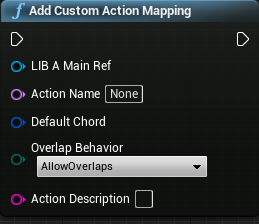
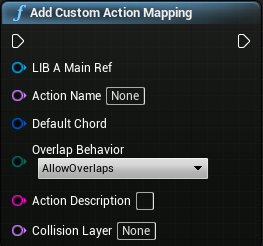
Added docs for 4.8.0

diff --git a/Pages/Docs/FunctionLibraries/Misc/AddDraggableWindowV2.md b/Pages/Docs/FunctionLibraries/Misc/AddDraggableWindowV2.md
@@ -1,0 +1,33 @@
+---
+title: AddDraggableWindowV2
+grand_parent: Function Libraries
+parent: Misc
+layout: page
+---
+
+# AddDraggableWindow
+
+| Function name | AddDraggableWindow |
+| --- | --- |
+| Function Library | Content/DRGLib/DraggableWindow/LIB_F_DraggableWindow |
+| Inputs | `LIB_A_MainRef(LIB_A_Main Object Reference)`<br/>`Widget(UserWidget object reference)` The widget to put inside the window<br/>`DesiredPosition(Vector2D Structure)` The position to place the window onscreen<br/>`Alignment(Vector2D Structure)` How to align the window against the desired position<br/>`StartingWindowSize(Vector2D Structure)` How big the window should be when originally placed<br/>`IsResizable(Boolean)` Whether we allow the window to be resized by the end user. <br/>`WindowName(Text)` The name to appear in the title bar of the window<br/>`IsScrollable(Boolean)` Whether the content is wrapped with a scrollbox automatically|
+| Outputs | `Window(LIB_W_DraggableWindow Object Reference)` The generated window|
+
+This function generates and places a draggable window on screen
+
+`DesiredPosition` and `StartingWindowSize` will both treat values from 0-1 as *fractions* of the total viewport size. This is per-axis, so it's possible to do something like `StartingWindowSize=[200,0.5]`, with those values representing a window that is *half* of the total height of the viewport while only being 200 slate units wide
+
+Additionally, a StartingWindowSize of 0 will have the window automatically scale to match the content. Therefore `StartingWindowSize=[0.0,0.0]` will have the window automatically become the correct size for the content
+
+`Alignment` Will always treat the inputted value as a fraction of the window's initial size onscreen
+
+`IsResizable` Handles whether the user is allowed to resize the window. This will *not* block the SetWindowSize function. Accomplished by showing/hiding the appropriate buttons
+
+`Widget` is your custom widget you wish to place inside the draggable window
+
+The below diagram explains the relations between the different variables. If you're familiar with CanvasPanels, think of DesiredPosition as the anchor point
+
+![Diagram](/DRGLib/Media/FullDocs/Diagrams/WindowPlacementDiagram.png)
+
+Example usage:  
+![Example image](/DRGLib/Media/FullDocs/FunctionLibs/Misc/AddDraggableWindowV2Image.png)

diff --git a/Pages/Docs/FunctionLibraries/Input/FindConflictingInputs.md b/Pages/Docs/FunctionLibraries/Input/FindConflictingInputs.md
@@ -10,7 +10,7 @@ layout: page
 | Function name | FindConflictingInputs |
 | --- | --- |
 | Function Library | Content/DRGLib/InputFunctions/LIB_F_Input |
-| Inputs | `LIB_A_MainRef(LIB_A_Main Object reference)`<br/>`Ignore(Name)` A single action to ignore when searching<br/>`Chord(InputChord Structure)` The Chord/key to search for overlapping actions |
+| Inputs | `LIB_A_MainRef(LIB_A_Main Object reference)`<br/>`Ignore(Name)` A single action to ignore when searching<br/>`Chord(InputChord Structure)` The Chord/key to search for overlapping actions<br/>`CollisionLayer(Name)` Optionally specifies a layer to search for |
 | Outputs | `CustomActions(Array of LIB_S_CustomInputStruct Structures` All custom actions that conflict with the input chord</br>`GameActions(Array of Names)` All base game actions that conflict with the input chord |
 
 Searches through the input settings to find all actions that use the same or similar keys as the input chord
@@ -19,6 +19,18 @@ Behavior differs slightly between game and custom actions
 - `Game actions:` Considered as overlapping if the same key is used. Modifier keys not considered
 - `Custom actions:` Only considered as overlapping if the full input chord matches, modifiers included
 This is due to the fact that game actions do not allow modifier keys at all
+
+When a collision layer is specified then:
+- Game actions are unaffected, and will collide as normal
+- Custom actions collide only when they have the same Layer as the one specified in `CollisionLayer`
+
+If no collision layer is specified then:
+- Game actions are unaffected, and will collide as normal
+- Custom actions will collide, even if the have a collision layer specified
+
+Even if an action collides, that doesn't necessarily mean a remap won't be allowed. 
+
+The intention behind this system is to allow for inputs in totally unrelated contexts to not interfere (i.e. the mod wouldn't use inputs most of the time). For instance, if a mod added shortcut keys to the loadout terminal it could specify its own layer so that it would allow overlapping keybinds with a mod that works in an entirely different context, like in missions
 
 Node Appearance:  
 ![Example image](/DRGLib/Media/FullDocs/FunctionLibs/Input/FindConflictingInputsImage.png)

diff --git a/Pages/Docs/FunctionLibraries/Input/AddCustomActionMapping.md b/Pages/Docs/FunctionLibraries/Input/AddCustomActionMapping.md
@@ -10,11 +10,11 @@ layout: page
 | Function name | AddCustomActionMapping |
 | --- | --- |
 | Function Library | Content/DRGLib/InputFunctions/LIB_F_Input |
-| Inputs | `LIB_A_MainRef(LIB_A_Main Object reference)`<br/>`ActionName(Name)` The name of the custom action<br/>`DefaultChord(InputChord Structure)` The key combo needed to trigger the action by default<br/>`OverlapBehavior(LIB_E_InputOverlap Enum)` Whether/how the custom action is permitted to overlap with other inputs<br/>`ActionDescription(String)` A short description of what the action does |
+| Inputs | `LIB_A_MainRef(LIB_A_Main Object reference)`<br/>`ActionName(Name)` The name of the custom action<br/>`DefaultChord(InputChord Structure)` The key combo needed to trigger the action by default<br/>`OverlapBehavior(LIB_E_InputOverlap Enum)` Whether/how the custom action is permitted to overlap with other inputs<br/>`ActionDescription(String)` A short description of what the action does<br/>`CollisionLayer(Name)` Specifies a family of inputs that can collide with each other. Useful if your inputs only need to worry about colliding with each other, but not other mods |
 
 The meat and potatoes of the Input library. Sets up a custom input with DRGLib, avoiding a lot of the grunt work. If a custom action with the same name already exists in DRGLib, do nothing
 
-**Note:** OverlapBehavior is only considered in the LIB_WT_InputKeySelector. The RemapCustomActionMapping node doesn't care
+**Note:** OverlapBehavior is only considered by DRGLib in the LIB_WT_InputKeySelector. The RemapCustomActionMapping node doesn't care
 
 For full notes on usage refer to the input tutorial TODO
 

diff --git a/Pages/Docs/ReleaseChecklist.md b/Pages/Docs/ReleaseChecklist.md
@@ -1,0 +1,17 @@
+---
+layout: page
+title: ReleaseChecklist
+---
+
+Steps to follow for releasing DRGLib:
+
+1. No bugs :)
+1. Assemble changelog
+1. Make PR for merging DevStaging into Main
+1. Approve and merge PR
+1. Add tag to main branch for version
+1. Release to mod.io
+1. Release to Github
+1. Make devkit files
+1. Release to Github
+1. Write docs

diff --git a/Pages/Docs/WidgetTemplates/LIB_WT_FilterableTreeView.md b/Pages/Docs/WidgetTemplates/LIB_WT_FilterableTreeView.md
@@ -1,10 +1,12 @@
 ---
-title: LIB_WT_TreeView
+title: LIB_WT_FilterableTreeView
 parent: Widget Templates
 layout: page
 ---
 
-# LIB_WT_TreeView
+# LIB_WT_FilterableTreeView
+
+This widget is nearly identical to LIB_WT_TreeView, but the end user can easily search it using the text box at the top
 
 ## Variables
 
